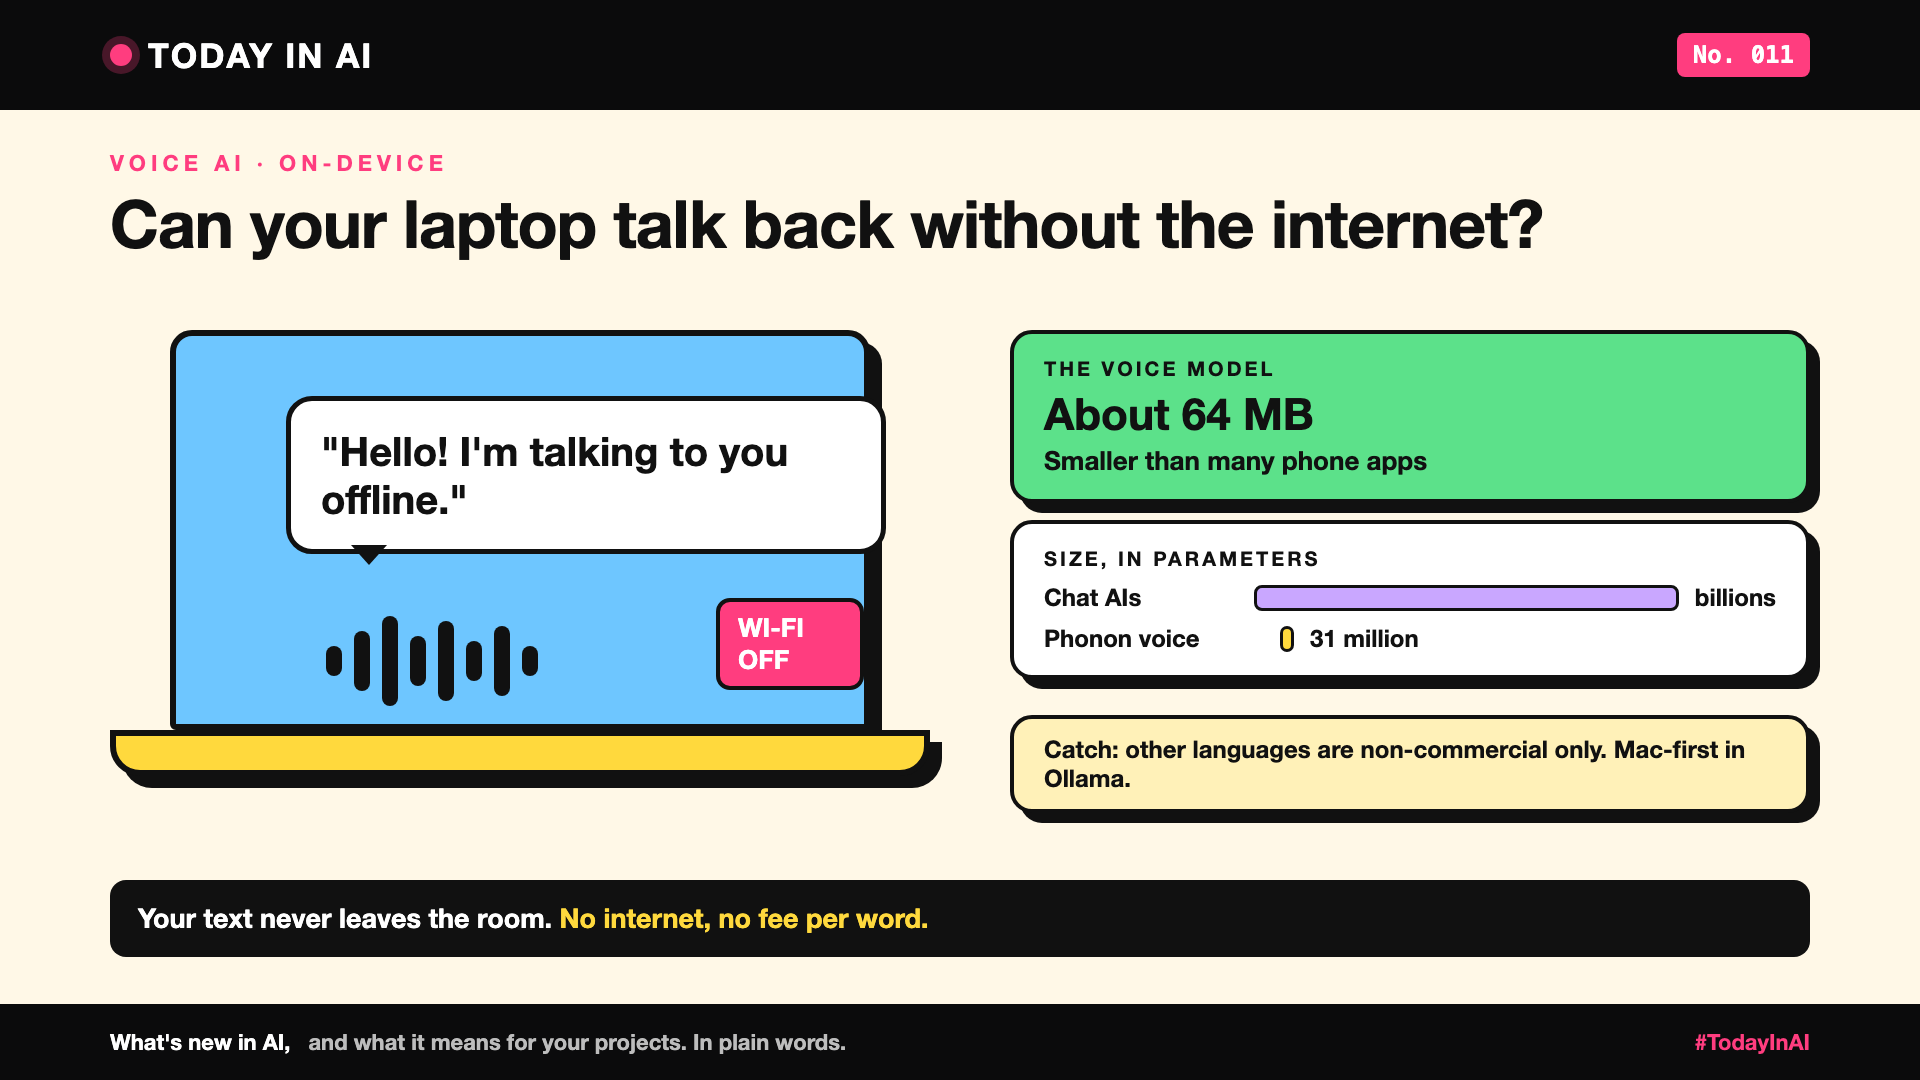
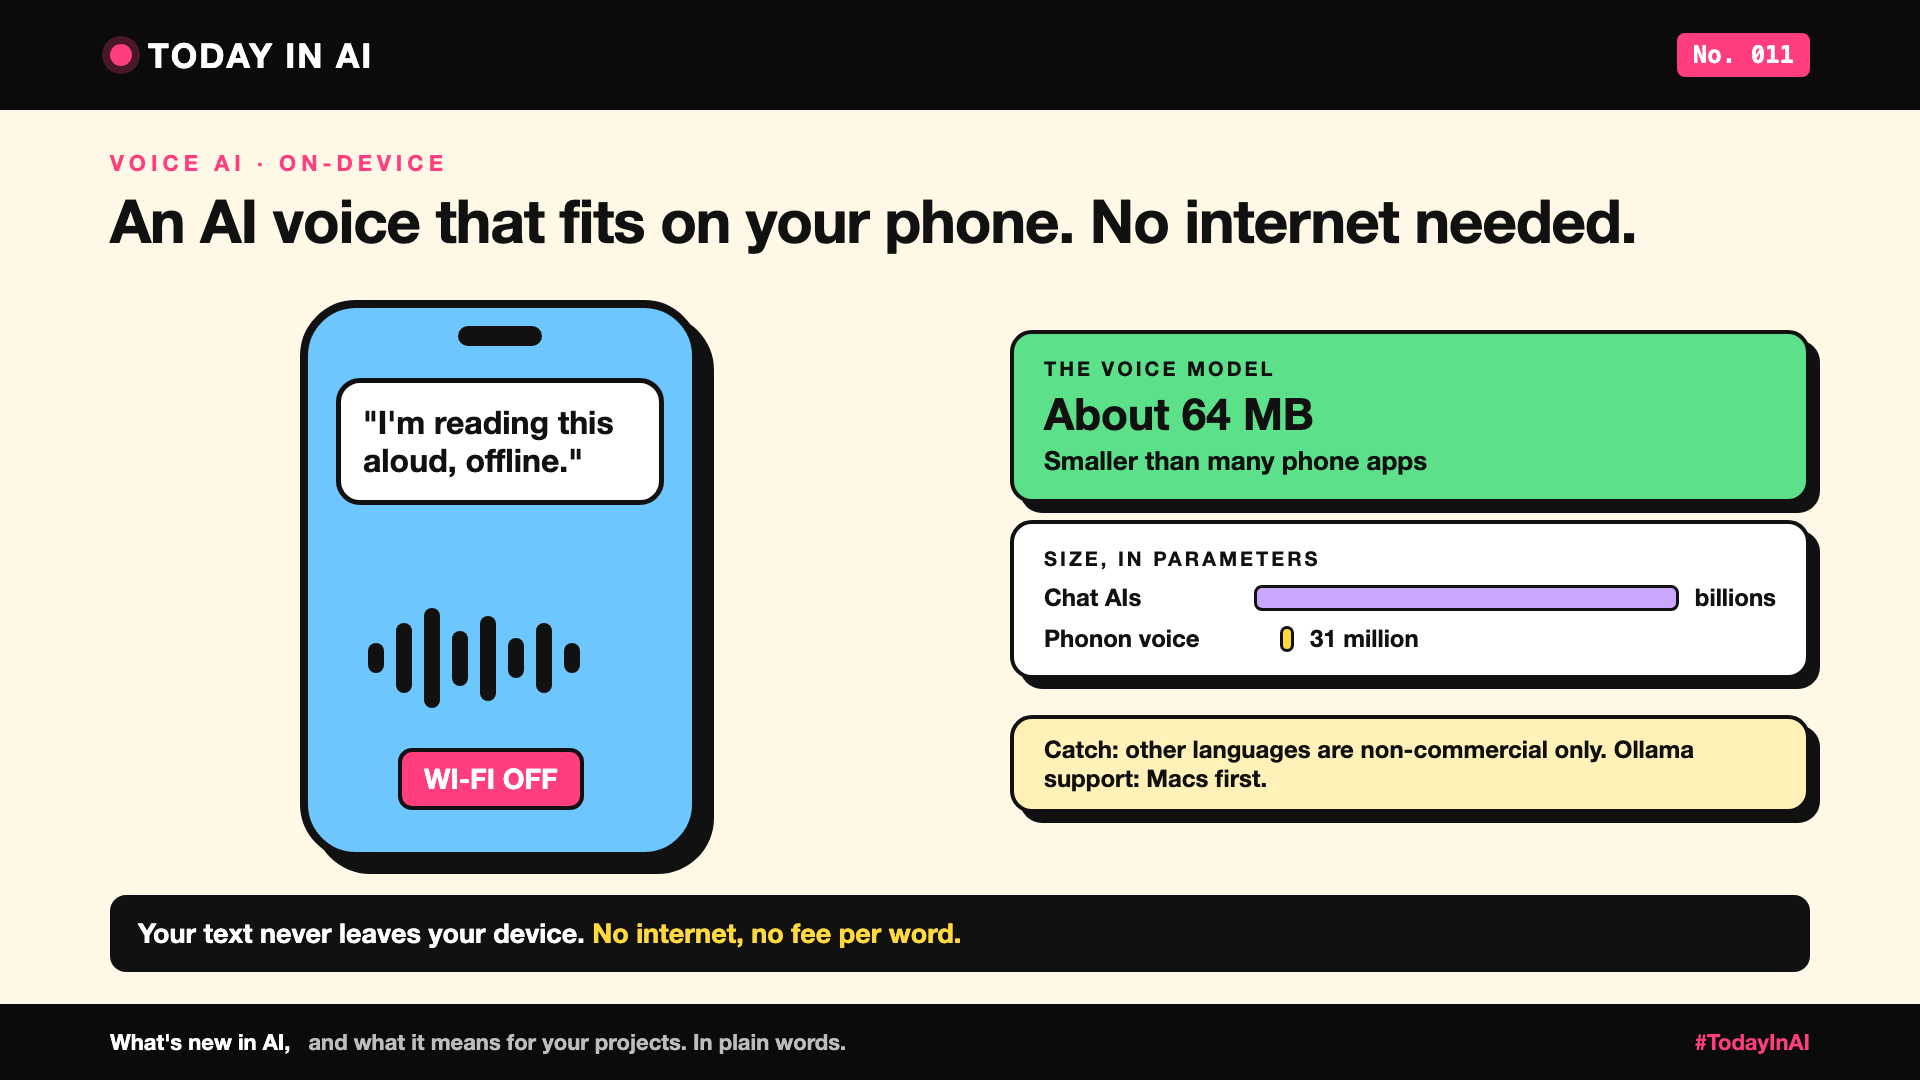
Today in AI 011: phone title, clearer 'reads text aloud', phone cover

diff --git a/20-today-in-ai/011-on-device-voice.md b/20-today-in-ai/011-on-device-voice.md
@@ -1,21 +1,21 @@
-# Today in AI, No. 011: Can Your Laptop Talk Back Without the Internet? | On-Device Voice
+# Today in AI, No. 011: An AI Voice That Fits on Your Phone. No Internet Needed. | On-Device Voice
 
 ![Cover](images/011-on-device-voice-cover.png)
 
 *Today in AI: what's new in AI, and what it means for you. In plain words.*
 
-**In one line:** A free AI voice small enough to fit in 64 MB now runs on your own computer. Nothing you type leaves it.
+**In one line:** A free AI voice, small enough for a phone, now reads text aloud right on your device. Nothing you type leaves it.
 
 ## What happened
 
-- **20 October 2026:** voice AI company Gradium released **Phonon**, small text-to-speech models anyone can download. [1]
+- **20 October 2026:** voice AI company Gradium released **Phonon**, small text-to-speech models (they turn written text into a spoken voice) that anyone can download. Gradium says they run on phones, laptops and even in a web browser. [1]
 - **26 October 2026:** Ollama, a popular free app for running AI on your own computer, added Phonon. Your local AI can now read its answers aloud. [2, 3]
 
 ## What it means
 
 Most AI voices live in the cloud: your text travels to a company's servers, and a voice comes back.
 
-Phonon is more like a radio you own. It plays right there on your laptop. No internet, no fee per word, and your text never leaves the room.
+Phonon is more like a radio you own. It plays right there on your phone or laptop. No internet, no fee per word, and your text never leaves the room.
 
 And it's tiny. Chat AIs have billions of parameters. Phonon's English model has 31 million, smaller than many phone apps. [1]
 
@@ -71,13 +71,13 @@ Credit to the Gradium and Ollama teams for their public announcements and docume
 **Post text (copy and paste):**
 
 ```
-Your laptop can now talk back. No internet needed.
+An AI voice that fits on your phone. No internet needed.
 
-Gradium's new Phonon voice runs inside Ollama, right on your own computer.
+Gradium's new Phonon reads text aloud right on your device. Ollama just added it for Macs.
 
-Your text never leaves the room.
+Your text never leaves your device.
 
-The English model is just 64 MB. The catch: other languages are non-commercial only, and it's Mac-first.
+The English model is just 64 MB. The catch: other languages are non-commercial only.
 
 No. 011 of Today in AI. Sources in the article. Not sponsored.
 

diff --git a/20-today-in-ai/README.md b/20-today-in-ai/README.md
@@ -49,7 +49,7 @@
 | 008 | [Does using AI make you give up faster? \| AI and learning](008-give-up-faster.md) | Study: AI help lowers persistence once the AI is gone; hints may not | [Published](https://www.linkedin.com/pulse/today-ai-008-does-using-make-you-give-up-faster-learning-arpit-jain-ppghf/) 14 October 2026 |
 | 009 | [Same AI, many clouds. Where does your data actually go? \| In-country AI](009-same-ai-many-clouds.md) | Claude and OpenAI models now on every big cloud; in-country inference in India on Amazon Bedrock | [Published](https://www.linkedin.com/pulse/today-ai-009-same-many-clouds-where-does-your-data-actually-jain-zgc1f) 23 October 2026 |
 | 010 | [Your AI agent is waiting. Are you still paying? \| Agent sandboxes](010-agent-sandboxes.md) | Google's Agent Compute Engine: a paused, isolated computer for each agent | [Published](https://www.linkedin.com/pulse/today-ai-010-your-agent-waiting-you-still-paying-sandboxes-arpit-jain-07qvf) 26 October 2026 |
-| 011 | [Can your laptop talk back without the internet? \| On-device voice](011-on-device-voice.md) | Gradium Phonon text-to-speech, now in Ollama on Macs | Draft |
+| 011 | [An AI voice that fits on your phone. No internet needed. \| On-device voice](011-on-device-voice.md) | Gradium Phonon text-to-speech, now in Ollama on Macs | Draft |
 | 012 | [Would you send your AI twin to a job interview? \| AI twins in hiring](012-ai-twin-interview.md) | AI twins that recruiters question before a real interview | Draft |
 
 Sources for each write-up are listed inside the write-up, under "References and credits".

diff --git a/20-today-in-ai/012-ai-twin-interview.md b/20-today-in-ai/012-ai-twin-interview.md
@@ -70,7 +70,7 @@ Credit to Fortune for the reporting. Facts in this write-up come from this repor
 - [No. 008: Does using AI make you give up faster?](https://www.linkedin.com/pulse/today-ai-008-does-using-make-you-give-up-faster-learning-arpit-jain-ppghf/)
 - [No. 009: Same AI, many clouds. Where does your data actually go?](https://www.linkedin.com/pulse/today-ai-009-same-many-clouds-where-does-your-data-actually-jain-zgc1f)
 - [No. 010: Your AI agent is waiting. Are you still paying?](https://www.linkedin.com/pulse/today-ai-010-your-agent-waiting-you-still-paying-sandboxes-arpit-jain-07qvf)
-- No. 011: Can your laptop talk back without the internet? *(link added when published)*
+- No. 011: An AI voice that fits on your phone. No internet needed. *(link added when published)*
 
 **Tags:** #AI #Hiring #FutureOfWork #HRTech #TodayInAI
 
